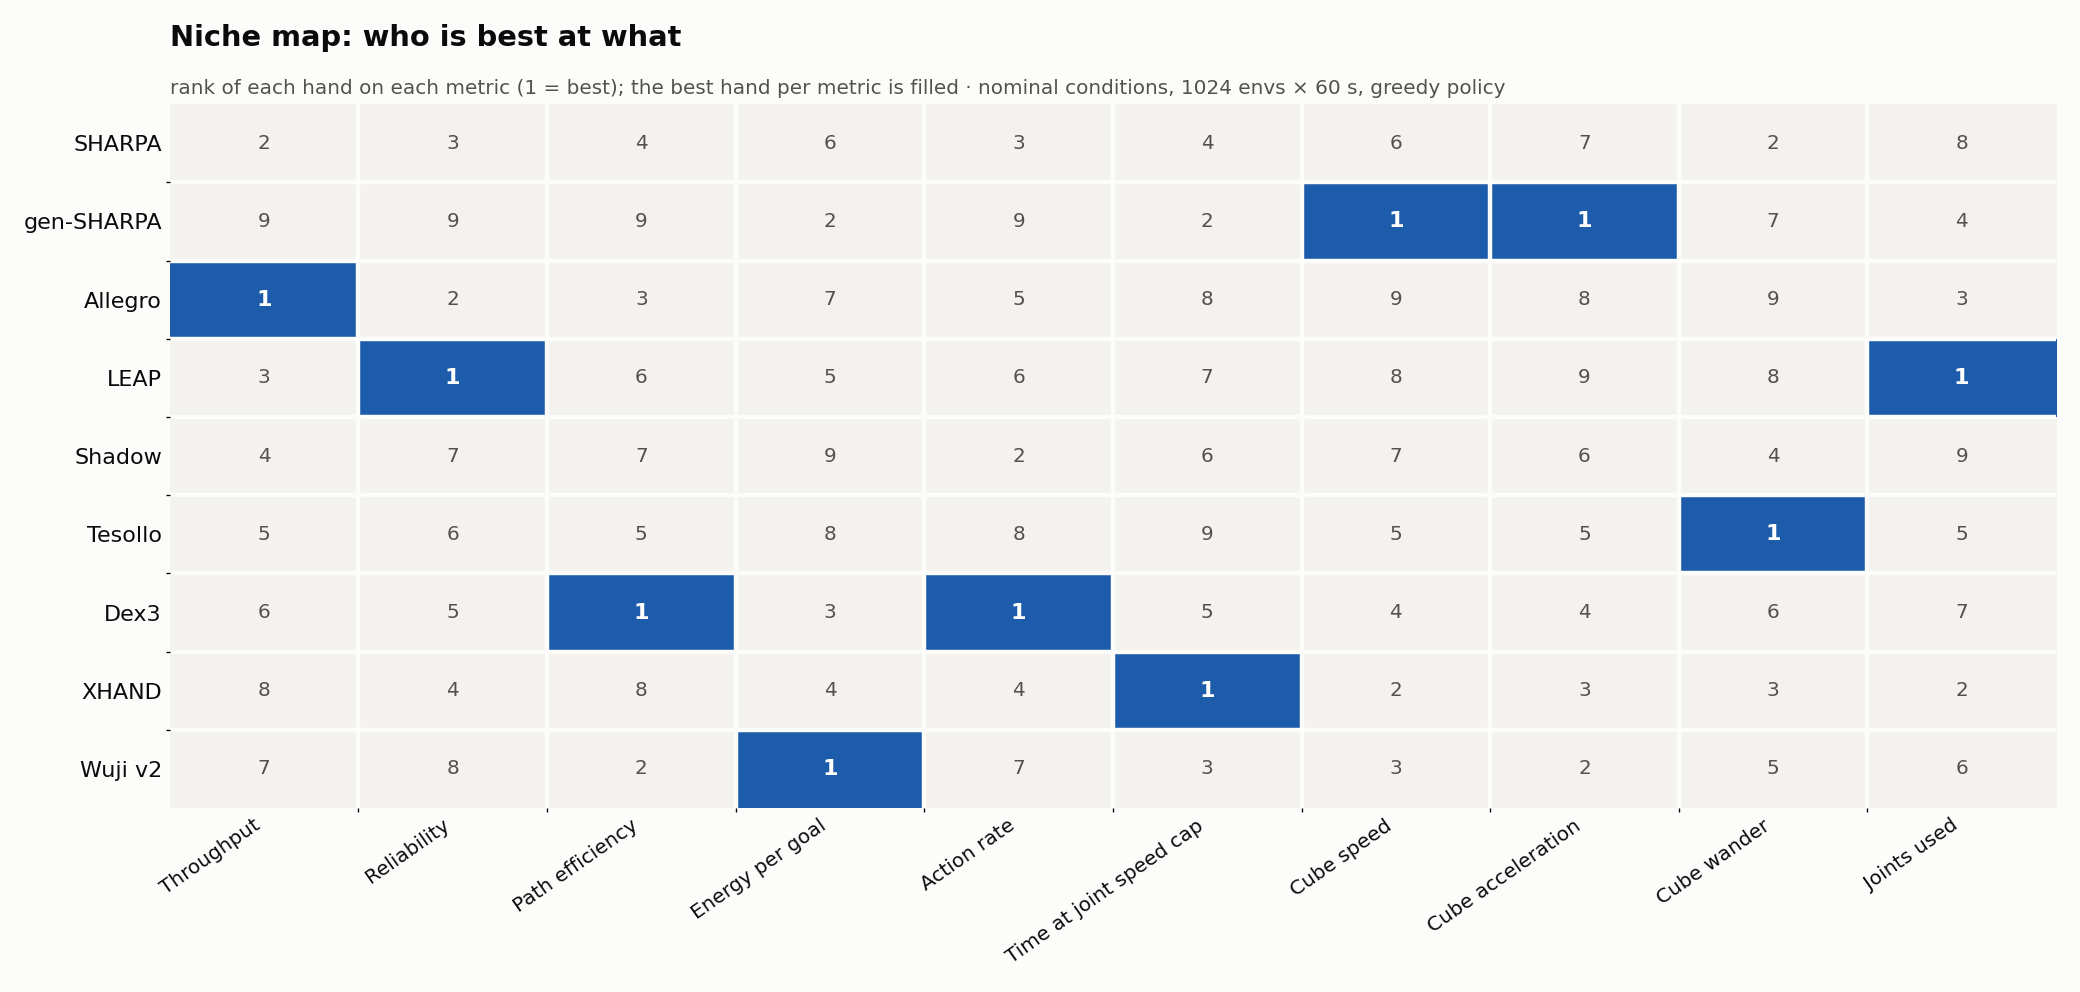
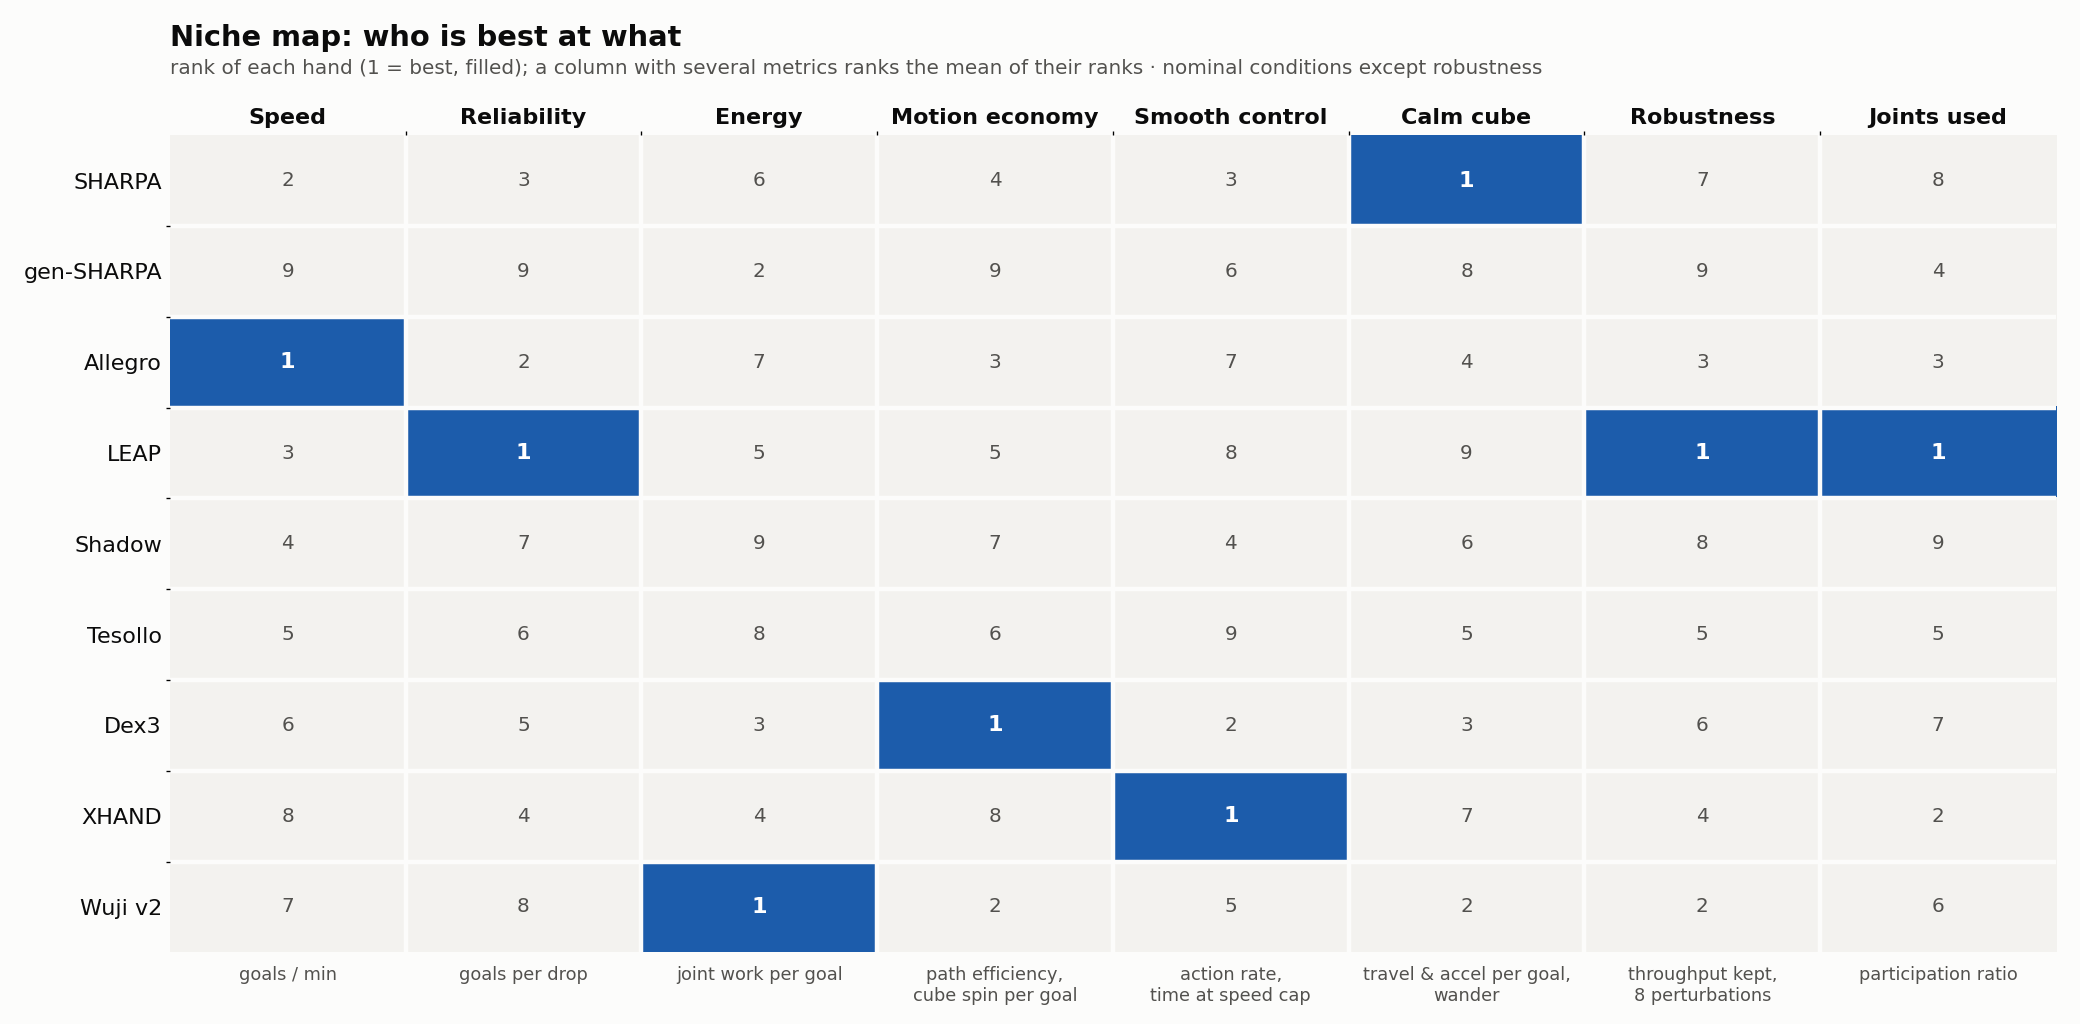
Embodiment niches: niche map grouped into 8 plain-language columns
Multi-metric columns rank the mean of their metrics' ranks; cube motion is
per goal (a slow policy no longer reads as gentle); robustness is mean
throughput kept across the 8 perturbations.

Claude-Session: https://claude.ai/code/session_01VEjfLD7vkNCwPYPC2HsL71

diff --git a/experiments/01oct_embodiment_niches/analysis/plot_main.py b/experiments/01oct_embodiment_niches/analysis/plot_main.py
@@ -37,37 +37,76 @@ def _style(ax):
     ax.tick_params(length=0)
 
 
+# Niche-map columns: each is the hand's mean rank over its component metrics, re-ranked.
+# Cube motion is PER GOAL, so a slow policy does not read as a gentle one.
+def _per_goal(key):
+    return lambda d: d[key] * 60.0 / d["goals_per_min"]
+
+
+def _robust(R, h):
+    import numpy as np
+    return float(np.mean([R[f"{h}__{c}"]["goals_per_min"] / R[f"{h}__nominal"]["goals_per_min"] for c in CONDS]))
+
+
+COMPOSITES = [
+    ("Speed", "goals / min", [(lambda d: d["goals_per_min"], True)]),
+    ("Reliability", "goals per drop", [(lambda d: d["goals_per_drop"], True)]),
+    ("Energy", "joint work per goal", [(lambda d: d["work_per_goal_J"], False)]),
+    ("Motion economy", "path efficiency,\ncube spin per goal",
+     [(lambda d: d["path_efficiency"], True), (_per_goal("obj_spin_mean"), False)]),
+    ("Smooth control", "action rate,\ntime at speed cap",
+     [(lambda d: d["target_rate_rad_s_per_joint"], False), (lambda d: d["joint_speed_saturated_frac"], False)]),
+    ("Calm cube", "travel & accel per goal,\nwander",
+     [(_per_goal("obj_speed_mean"), False), (_per_goal("obj_acc_mean"), False),
+      (lambda d: d["palm_dist_std"], False)]),
+    ("Robustness", "throughput kept,\n8 perturbations", "robust"),
+    ("Joints used", "participation ratio", [(lambda d: d["participation_frac"], True)]),
+]
+
+
+def _rank(vals, higher):
+    import numpy as np
+    v = np.asarray(vals, dtype=float)
+    order = np.argsort(-v if higher else v, kind="stable")
+    r = np.empty(len(v))
+    r[order] = np.arange(1, len(v) + 1)
+    return r
+
+
 def niche_map(R, hands):
     import numpy as np
-    # time per goal ranks identically to throughput, and mean power almost identically to energy per
-    # goal, so the map keeps one of each pair (both stay in plots/details/).
-    ms = [m for m in METRICS if m not in ("time_per_goal", "power")]
-    vals = np.array([[METRICS[m][3](R[f"{h}__nominal"]) for m in ms] for h in hands])
-    ranks = np.zeros_like(vals)
-    for j, m in enumerate(ms):
-        order = np.argsort(-vals[:, j] if METRICS[m][2] else vals[:, j], kind="stable")
-        ranks[order, j] = np.arange(1, len(hands) + 1)
-    fig, ax = plt.subplots(figsize=(13, 6.2), facecolor=SURFACE)
-    # Only the winner of each metric is filled; every other cell stays surface with its rank in muted ink.
-    best = (ranks == 1).astype(float)
-    ax.imshow(best, cmap=LinearSegmentedColormap.from_list("hl", ["#f3f2ef", BEST]), vmin=0, vmax=1,
-              aspect="auto")
+    cols, ranks = [], []
+    for name, sub, comps in COMPOSITES:
+        if comps == "robust":
+            r = _rank([_robust(R, h) for h in hands], True)
+        else:
+            parts = [_rank([g(R[f"{h}__nominal"]) for h in hands], hi) for g, hi in comps]
+            r = _rank(np.mean(parts, axis=0), False)
+        cols.append((name, sub))
+        ranks.append(r)
+    ranks = np.stack(ranks, axis=1)
+    fig, ax = plt.subplots(figsize=(13, 6.4), facecolor=SURFACE)
+    ax.imshow((ranks == 1).astype(float), cmap=LinearSegmentedColormap.from_list("hl", ["#f3f2ef", BEST]),
+              vmin=0, vmax=1, aspect="auto")
     for i in range(len(hands)):
-        for j in range(len(ms)):
+        for j in range(len(cols)):
             win = ranks[i, j] == 1
             ax.text(j, i, f"{int(ranks[i, j])}", ha="center", va="center", fontsize=10 if win else 9,
                     color="#ffffff" if win else INK2, fontweight="semibold" if win else "normal")
-    ax.set_xticks(range(len(ms)), [METRICS[m][0] for m in ms], rotation=35, ha="right", fontsize=9, color=INK)
+    ax.set_xticks(range(len(cols)), [n for n, _ in cols], fontsize=10, color=INK, fontweight="semibold")
+    ax.xaxis.tick_top()
+    for j, (_, sub) in enumerate(cols):
+        ax.text(j, len(hands) - 0.35, sub, ha="center", va="top", fontsize=8, color=INK2)
     ax.set_yticks(range(len(hands)), [NAMES[h] for h in hands], fontsize=10, color=INK)
-    ax.set_xticks([x - 0.5 for x in range(1, len(ms))], minor=True)
+    ax.set_xticks([x - 0.5 for x in range(1, len(cols))], minor=True)
     ax.set_yticks([y - 0.5 for y in range(1, len(hands))], minor=True)
     ax.grid(which="minor", color=SURFACE, linewidth=2)
     _style(ax)
-    ax.set_title("Niche map: who is best at what", loc="left", fontsize=13,
-                 color=INK, fontweight="semibold", pad=26)
-    ax.text(0, 1.015, "rank of each hand on each metric (1 = best); the best hand per metric is filled · "
-            "nominal conditions, 1024 envs × 60 s, greedy policy",
-            transform=ax.transAxes, fontsize=9, color=INK2)
+    ax.set_title("Niche map: who is best at what", loc="left", fontsize=13, color=INK,
+                 fontweight="semibold", pad=40)
+    ax.text(0, 1.075, "rank of each hand (1 = best, filled); a column with several metrics ranks the "
+            "mean of their ranks · nominal conditions except robustness", transform=ax.transAxes,
+            fontsize=9, color=INK2)
     fig.tight_layout()
     fig.savefig(OUT / "niche_map.png", dpi=160, facecolor=SURFACE)
     plt.close(fig)
